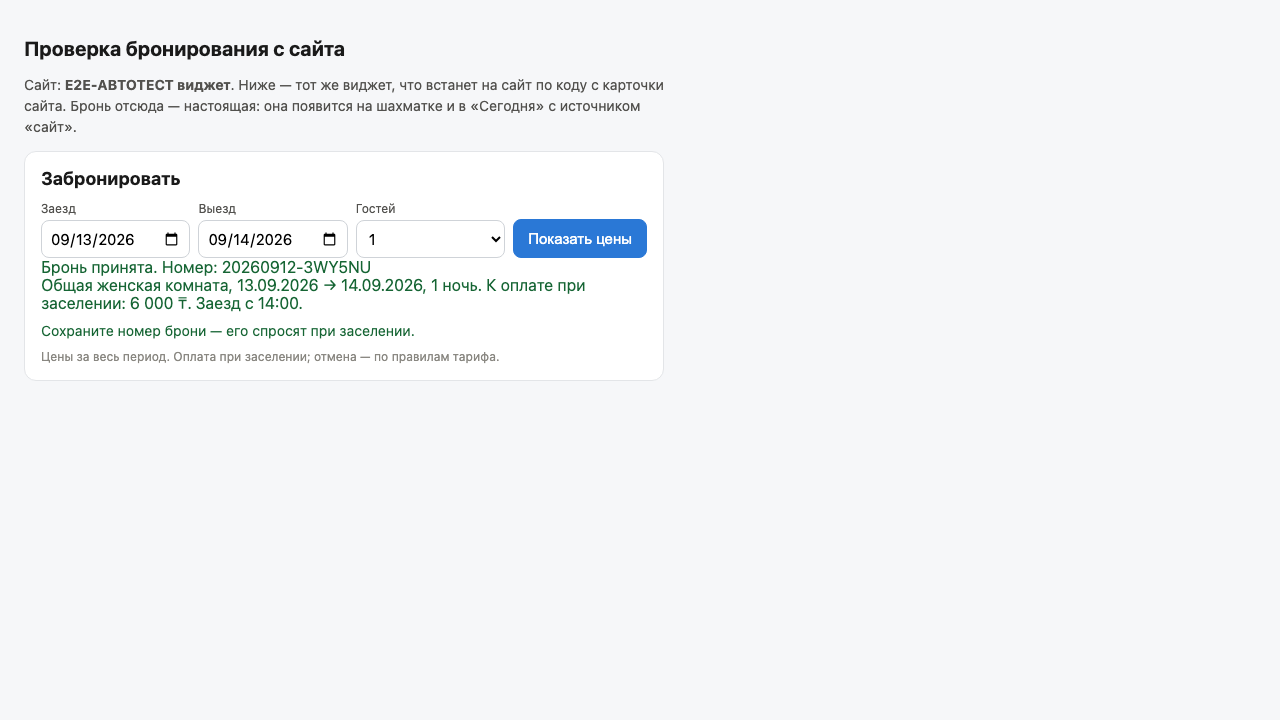
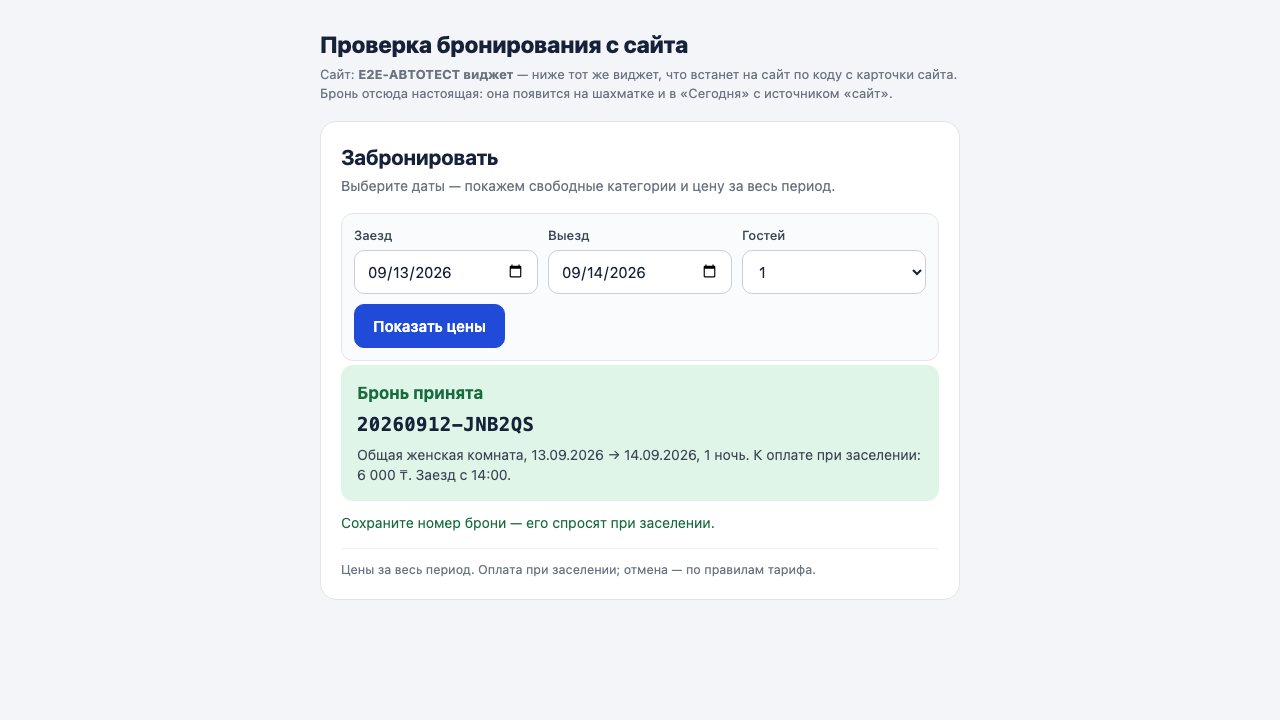
feat(site): guest-facing booking widget and both check pages in the same visual direction
Widget (.pmsw): brand palette behind its own --pmsw-* variables the site owner can override, 44px fields
and buttons, single column under 460px, focus rings, color-scheme: light so date inputs survive a dark host
page, system font (no web font pulled onto someone else's site); price and confirmation number get typographic
weight. Check pages /w/demo and /a/demo on the same palette. DOM contract (data-pmsw, .cat/.n/.p/.msg) unchanged
— web-booking e2e 2/2 green. Re-theming documented in the install guide; ADR-027 addendum.

diff --git a/apps/api/src/web-booking/widget.js b/apps/api/src/web-booking/widget.js
@@ -13,13 +13,56 @@
   if (!key) return;
   var api = script.src.replace(/\/w\/widget\.js(\?.*)?$/, '');
   var targetSel = script.getAttribute('data-target') || '#pms-booking';
-  var css =
-    '.pmsw{font-family:system-ui,-apple-system,"Segoe UI",sans-serif;max-width:640px;color:#1a1a1a;background:#fff;border:1px solid #e3e5e8;border-radius:12px;padding:16px;box-sizing:border-box}' +
-    '.pmsw *{box-sizing:border-box}.pmsw h3{margin:0 0 12px;font-size:18px}.pmsw .row{display:flex;gap:8px;flex-wrap:wrap;align-items:end}' +
-    '.pmsw label{display:grid;gap:4px;font-size:12px;color:#52514e;flex:1 1 140px}.pmsw input,.pmsw select,.pmsw textarea{padding:8px;border:1px solid #cfd3d8;border-radius:8px;font-size:15px;font-family:inherit;width:100%}' +
-    '.pmsw button{padding:10px 14px;border-radius:8px;border:1px solid #2a78d6;background:#2a78d6;color:#fff;font-size:15px;cursor:pointer}.pmsw button.sec{background:#fff;color:#2a78d6}.pmsw button:disabled{opacity:.6;cursor:default}' +
-    '.pmsw .cat{display:flex;justify-content:space-between;gap:12px;align-items:center;border-top:1px solid #f0f1f3;padding:10px 0}.pmsw .cat .n{font-weight:600}.pmsw .cat .s{font-size:13px;color:#52514e}.pmsw .cat .p{font-size:17px;font-weight:600;white-space:nowrap}' +
-    '.pmsw .msg{margin-top:10px;font-size:14px}.pmsw .err{color:#b91c1c}.pmsw .ok{color:#166534}.pmsw .note{font-size:12px;color:#898781;margin-top:10px}.pmsw .hp{position:absolute;left:-9999px;top:-9999px}';
+  /*
+   * Оформление (дизайн «спокойная стойка», 12.09.2026). Виджет стоит на чужом сайте, поэтому:
+   * все селекторы под `.pmsw`, свои переменные (владелец сайта может переопределить их своим CSS),
+   * системные шрифты — не тянем гарнитуру на чужую страницу, `color-scheme: light` — чтобы поля дат
+   * не почернели на тёмной теме сайта. Поля и кнопки 44 px: гость бронирует с телефона.
+   */
+  var css = [
+    '.pmsw{--pmsw-accent:#1f4bd8;--pmsw-accent-dark:#17399f;--pmsw-ink:#16213a;--pmsw-ink-2:#3d4656;',
+    '--pmsw-muted:#6b7280;--pmsw-line:#e3e5e8;--pmsw-line-soft:#eef0f3;--pmsw-field:#cbd0d6;',
+    '--pmsw-ok:#176b3f;--pmsw-ok-bg:#dff5e7;--pmsw-err:#b4232c;--pmsw-radius:12px;',
+    'color-scheme:light;font-family:system-ui,-apple-system,"Segoe UI",Roboto,sans-serif;font-size:15px;line-height:1.45;',
+    'max-width:680px;color:var(--pmsw-ink);background:#fff;border:1px solid var(--pmsw-line);',
+    'border-radius:16px;padding:20px;box-sizing:border-box;text-align:left}',
+    '.pmsw *{box-sizing:border-box}',
+    '.pmsw h3{margin:0;font-size:21px;font-weight:700;letter-spacing:-.01em;color:var(--pmsw-ink)}',
+    '.pmsw .lede{margin:4px 0 16px;font-size:14px;color:var(--pmsw-muted)}',
+    '.pmsw .row{display:flex;gap:10px;flex-wrap:wrap;align-items:end}',
+    '.pmsw .search{background:#fafbfc;border:1px solid var(--pmsw-line);border-radius:var(--pmsw-radius);padding:12px}',
+    '.pmsw label{display:grid;gap:5px;font-size:13px;font-weight:500;color:var(--pmsw-ink-2);flex:1 1 150px;min-width:0}',
+    '.pmsw input,.pmsw select,.pmsw textarea{min-height:44px;padding:10px 12px;border:1px solid var(--pmsw-field);',
+    'border-radius:10px;font-size:15px;font-family:inherit;color:var(--pmsw-ink);background:#fff;width:100%}',
+    '.pmsw textarea{min-height:64px;resize:vertical}',
+    '.pmsw input:focus-visible,.pmsw select:focus-visible,.pmsw textarea:focus-visible{outline:2px solid var(--pmsw-accent);outline-offset:-1px;border-color:var(--pmsw-accent)}',
+    '.pmsw button{min-height:44px;padding:11px 18px;border-radius:10px;border:1px solid var(--pmsw-accent);',
+    'background:var(--pmsw-accent);color:#fff;font-size:15px;font-weight:600;font-family:inherit;cursor:pointer;white-space:nowrap}',
+    '.pmsw button:hover{background:var(--pmsw-accent-dark);border-color:var(--pmsw-accent-dark)}',
+    '.pmsw button.sec{background:#fff;color:var(--pmsw-accent)}',
+    '.pmsw button.sec:hover{background:#f4f6fd}',
+    '.pmsw button:disabled{opacity:.55;cursor:default}',
+    '.pmsw button:focus-visible{outline:2px solid var(--pmsw-ink);outline-offset:2px}',
+    '.pmsw .found{margin:16px 0 2px;font-size:14px;color:var(--pmsw-ink-2);font-weight:500}',
+    '.pmsw .cat{display:flex;justify-content:space-between;gap:14px;align-items:center;',
+    'border-top:1px solid var(--pmsw-line-soft);padding:14px 0}',
+    '.pmsw .cat .n{font-weight:600;font-size:16px}',
+    '.pmsw .cat .s{font-size:13px;color:var(--pmsw-muted);margin-top:2px}',
+    '.pmsw .cat .p{font-size:20px;font-weight:700;white-space:nowrap;font-variant-numeric:tabular-nums;margin-left:auto}',
+    '.pmsw .cat--off{opacity:.55}.pmsw .cat--off .p{font-weight:600;color:var(--pmsw-muted)}',
+    '.pmsw .chosen{border-top:0;background:#fafbfc;border:1px solid var(--pmsw-line);border-radius:var(--pmsw-radius);padding:14px;margin-bottom:14px}',
+    '.pmsw .msg{margin-top:12px;font-size:14px}',
+    '.pmsw .err{color:var(--pmsw-err)}',
+    '.pmsw .ok{color:var(--pmsw-ok)}',
+    '.pmsw .done{background:var(--pmsw-ok-bg);border-radius:var(--pmsw-radius);padding:16px;margin-top:4px}',
+    '.pmsw .done .n{font-size:17px;font-weight:700;color:var(--pmsw-ok);margin-bottom:4px}',
+    '.pmsw .done .num{font-family:ui-monospace,SFMono-Regular,Menlo,monospace;font-size:19px;font-weight:600;color:var(--pmsw-ink);letter-spacing:.02em;display:block;margin:6px 0}',
+    '.pmsw .done .s{font-size:14px;color:var(--pmsw-ink-2)}',
+    '.pmsw .note{font-size:12.5px;color:var(--pmsw-muted);margin-top:14px;padding-top:12px;border-top:1px solid var(--pmsw-line-soft)}',
+    '.pmsw .hp{position:absolute;left:-9999px;top:-9999px}',
+    '@media (max-width:460px){.pmsw{padding:16px;border-radius:12px}.pmsw label{flex:1 1 100%}',
+    '.pmsw .row>button{width:100%}.pmsw .cat{flex-wrap:wrap}.pmsw .cat .p{margin-left:0}.pmsw .cat>button{width:100%}}',
+  ].join('');
 
   function ready(fn) {
     if (document.readyState === 'loading') document.addEventListener('DOMContentLoaded', fn);
@@ -153,11 +196,19 @@
     });
     root.appendChild(el('h3', { text: 'Забронировать' }));
     root.appendChild(
-      el('div', { class: 'row' }, [
-        el('label', { text: 'Заезд' }, [arrival]),
-        el('label', { text: 'Выезд' }, [departure]),
-        el('label', { text: 'Гостей' }, [adults]),
-        quoteBtn,
+      el('div', {
+        class: 'lede',
+        text: 'Выберите даты — покажем свободные категории и цену за весь период.',
+      }),
+    );
+    root.appendChild(
+      el('div', { class: 'search' }, [
+        el('div', { class: 'row' }, [
+          el('label', { text: 'Заезд' }, [arrival]),
+          el('label', { text: 'Выезд' }, [departure]),
+          el('label', { text: 'Гостей' }, [adults]),
+          quoteBtn,
+        ]),
       ]),
     );
     root.appendChild(list);
@@ -208,7 +259,7 @@
     function renderQuote(r) {
       list.textContent = '';
       var head = el('div', {
-        class: 's',
+        class: 'found',
         text:
           ru(r.arrivalDate) +
           ' → ' +
@@ -239,7 +290,7 @@
         var row = el(
           'div',
           {
-            class: 'cat',
+            class: can ? 'cat' : 'cat cat--off',
             'data-pmsw': 'cat',
             'data-code': c.code,
             'data-available': String(c.available),
@@ -324,7 +375,7 @@
         },
       });
       var form = el('form', { 'data-pmsw': 'form' }, [
-        el('div', { class: 'cat' }, [
+        el('div', { class: 'cat chosen' }, [
           el('div', {}, [
             el('div', { class: 'n', text: c.name }),
             el('div', {
@@ -380,25 +431,30 @@
             track('booking_step', { step: 'done', category: c.code });
             list.textContent = '';
             list.appendChild(
-              el('div', { class: 'ok', 'data-pmsw': 'done', 'data-number': b.confirmationNumber }, [
-                el('div', { class: 'n', text: 'Бронь принята. Номер: ' + b.confirmationNumber }),
-                el('div', {
-                  class: 's',
-                  text:
-                    b.categoryName +
-                    ', ' +
-                    ru(b.arrivalDate) +
-                    ' → ' +
-                    ru(b.departureDate) +
-                    ', ' +
-                    nightsWord(b.nights) +
-                    '. К оплате при заселении: ' +
-                    money(b.totalMinor, b.currency) +
-                    '. Заезд с ' +
-                    b.checkInTime +
-                    '.',
-                }),
-              ]),
+              el(
+                'div',
+                { class: 'done', 'data-pmsw': 'done', 'data-number': b.confirmationNumber },
+                [
+                  el('div', { class: 'n', text: 'Бронь принята' }),
+                  el('span', { class: 'num', text: b.confirmationNumber }),
+                  el('div', {
+                    class: 's',
+                    text:
+                      b.categoryName +
+                      ', ' +
+                      ru(b.arrivalDate) +
+                      ' → ' +
+                      ru(b.departureDate) +
+                      ', ' +
+                      nightsWord(b.nights) +
+                      '. К оплате при заселении: ' +
+                      money(b.totalMinor, b.currency) +
+                      '. Заезд с ' +
+                      b.checkInTime +
+                      '.',
+                  }),
+                ],
+              ),
             );
             say('Сохраните номер брони — его спросят при заселении.', 'ok');
           })

diff --git a/apps/api/src/analytics/collect.controller.ts b/apps/api/src/analytics/collect.controller.ts
@@ -86,9 +86,10 @@ function demoPage(siteName: string, key: string, second: boolean): string {
   const title = second ? 'Вторая страница' : 'Проверка счётчика PMS';
   return `<!doctype html><html lang="ru"><head><meta charset="utf-8"><meta name="viewport" content="width=device-width, initial-scale=1"><meta name="robots" content="noindex"><title>${esc(title)}</title>
 <script async src="/a/pms.js" data-site="${key}"></script>
-<style>body{font-family:system-ui,sans-serif;margin:0;padding:24px;max-width:560px;color:#1a1a1a;background:#f6f7f9}h1{font-size:20px}p,li{font-size:15px;line-height:1.5}button{display:block;width:100%;margin:8px 0;padding:12px;font-size:16px;border-radius:8px;border:1px solid #2a78d6;background:#fff;color:#2a78d6}a.btn{display:block;margin:8px 0;padding:12px;text-align:center;border-radius:8px;background:#2a78d6;color:#fff;text-decoration:none}code{background:#eef0f3;padding:2px 4px;border-radius:4px}#log{font-size:13px;color:#166534;min-height:1.5em}</style></head>
-<body><h1>${esc(title)}</h1>
-<p>Сайт: <b>${esc(siteName)}</b>, ключ <code>${key}</code>.</p>
+<style>*{box-sizing:border-box}body{font-family:system-ui,-apple-system,'Segoe UI',Roboto,sans-serif;margin:0;padding:28px 20px 48px;color:#16213a;background:#f4f5f8;line-height:1.45;color-scheme:light}.wrap{max-width:640px;margin:0 auto}h1{font-size:23px;font-weight:800;letter-spacing:-.01em;margin:0 0 4px}.sub{font-size:13px;color:#6b7280;margin:0 0 18px}p,li{font-size:15px;color:#3d4656}code{font-family:ui-monospace,SFMono-Regular,Menlo,monospace;font-size:13px;background:#e8eefc;color:#17399f;padding:2px 6px;border-radius:4px}.card{background:#fff;border:1px solid #e3e5e8;border-radius:14px;padding:18px}button{display:block;width:100%;min-height:48px;margin:8px 0;padding:12px 16px;font-size:16px;font-weight:600;font-family:inherit;border-radius:10px;border:1px solid #cbd0d6;background:#fff;color:#16213a;cursor:pointer;text-align:left}button:hover{border-color:#1f4bd8;color:#1f4bd8}button:focus-visible,a:focus-visible{outline:2px solid #1f4bd8;outline-offset:2px}a.btn{display:block;min-height:48px;margin:14px 0 0;padding:13px 16px;text-align:center;border-radius:10px;background:#1f4bd8;color:#fff;text-decoration:none;font-weight:600}a.btn:hover{background:#17399f}#log{font-size:13.5px;font-weight:500;color:#176b3f;min-height:1.5em;margin-top:12px}.foot{color:#6b7280;font-size:12.5px;margin-top:20px;padding-top:14px;border-top:1px solid #e3e5e8}</style></head>
+<body><div class="wrap"><h1>${esc(title)}</h1>
+<p class="sub">Сайт: <b>${esc(siteName)}</b>, ключ <code>${key}</code></p>
+<div class="card">
 <p>${
     second
       ? 'Это второй просмотр в той же сессии. Вернитесь назад или нажмите кнопки — события уйдут в PMS.'
@@ -99,7 +100,8 @@ function demoPage(siteName: string, key: string, second: boolean): string {
 <button type="button" onclick="pms('event', 'whatsapp_click'); log('клик по WhatsApp')">Клик по WhatsApp (whatsapp_click)</button>
 <a class="btn" href="/a/demo?k=${key}&amp;p=${second ? '1' : '2'}">${second ? 'Назад на первую страницу' : 'Вторая страница (ещё один просмотр)'}</a>
 <div id="log"></div>
-<p style="color:#666;font-size:13px">Счётчик не собирает персональные данные: без cookies, IP и имён. Источник у этой страницы — «прямой заход», если вы открыли её по ссылке из мессенджера — «соцсети».</p>
+</div>
+<p class="foot">Счётчик не собирает персональные данные: без cookies, IP и имён. Источник у этой страницы — «прямой заход», если вы открыли её по ссылке из мессенджера — «соцсети».</p></div>
 <script>function log(t){document.getElementById('log').textContent='Отправлено: '+t+' — '+new Date().toLocaleTimeString('ru-RU')}</script>
 </body></html>`;
 }

diff --git a/apps/api/src/web-booking/web-booking.controller.ts b/apps/api/src/web-booking/web-booking.controller.ts
@@ -97,10 +97,10 @@ const esc = (s: string) =>
 function demoPage(siteName: string, key: string): string {
   return `<!doctype html><html lang="ru"><head><meta charset="utf-8"><meta name="viewport" content="width=device-width, initial-scale=1"><meta name="robots" content="noindex"><title>Проверка бронирования с сайта</title>
 <script async src="/a/pms.js" data-site="${key}"></script>
-<style>body{font-family:system-ui,sans-serif;margin:0;padding:24px;max-width:640px;color:#1a1a1a;background:#f6f7f9}h1{font-size:20px}p{font-size:14px;color:#52514e;line-height:1.5}</style></head>
-<body><h1>Проверка бронирования с сайта</h1>
-<p>Сайт: <b>${esc(siteName)}</b>. Ниже — тот же виджет, что встанет на сайт по коду с карточки сайта. Бронь отсюда — настоящая: она появится на шахматке и в «Сегодня» с источником «сайт».</p>
+<style>*{box-sizing:border-box}body{font-family:system-ui,-apple-system,'Segoe UI',Roboto,sans-serif;margin:0;padding:28px 20px 48px;color:#16213a;background:#f4f5f8;line-height:1.45;color-scheme:light}.wrap{max-width:640px;margin:0 auto}h1{font-size:23px;font-weight:800;letter-spacing:-.01em;margin:0 0 4px}.sub{font-size:13px;color:#6b7280;margin:0 0 18px}p,li{font-size:15px;color:#3d4656}code{font-family:ui-monospace,SFMono-Regular,Menlo,monospace;font-size:13px;background:#e8eefc;color:#17399f;padding:2px 6px;border-radius:4px}.card{background:#fff;border:1px solid #e3e5e8;border-radius:14px;padding:18px}</style></head>
+<body><div class="wrap"><h1>Проверка бронирования с сайта</h1>
+<p class="sub">Сайт: <b>${esc(siteName)}</b> — ниже тот же виджет, что встанет на сайт по коду с карточки сайта. Бронь отсюда настоящая: она появится на шахматке и в «Сегодня» с источником «сайт».</p>
 <div id="pms-booking"></div>
 <script async src="/w/widget.js" data-site="${key}"></script>
-</body></html>`;
+</div></body></html>`;
 }

diff --git a/DECISIONS.md b/DECISIONS.md
@@ -603,3 +603,12 @@ e2e. Настоящий дизайн делается по замечаниям 
 > заголовок экрана 28/800; заголовки колонок заглавными 11,5 с разрядкой, строки 8×12, подсветка при наведении;
 > контролы 34 px; плитки-показатели: жёлтая «не сделано», красная «долг», остальные белые. Тексты, поля,
 > `data-testid` не менялись; сквозные тесты стойки зелёные; скриншоты `reports/screenshots/design-*.png`.
+>
+> **Гостевая часть в том же стиле (12.09.2026, вечер).** Виджет бронирования на сайте хостела
+> (`apps/api/src/web-booking/widget.js`) и обе проверочные страницы (`/w/demo`, `/a/demo`) переведены на те же
+> цвета. Виджет живёт на чужом сайте, поэтому правила отличаются от стойки: все селекторы под классом `.pmsw`;
+> цвета — собственные переменные `--pmsw-accent`, `--pmsw-ink`, `--pmsw-radius` и т. д., владелец сайта может
+> переопределить их своим CSS (описано в `docs/site/install-2026-09-12.md`); гарнитура не подгружается —
+> системный шрифт, чтобы не замедлять чужую страницу; `color-scheme: light`, иначе поля дат чернеют на сайте
+> с тёмной темой; поля и кнопки 44 px и одна колонка уже 460 px — гость бронирует с телефона. DOM-контракт
+> (`data-pmsw-*`, классы `.cat`, `.n`, `.p`, `.msg`) не менялся, его держит `tests/e2e/web-booking.spec.ts`.

diff --git a/docs/site/install-2026-09-12.md b/docs/site/install-2026-09-12.md
@@ -51,7 +51,27 @@
 ```
 
 Виджет рисуется внутри `<div id="pms-booking">`. Нужен другой контейнер — добавьте атрибут
-`data-target="#мой-блок"`. Ширина — до 640 px, растягивается по контейнеру; стили свои, с сайтом не конфликтуют.
+`data-target="#мой-блок"`. Ширина — до 680 px, растягивается по контейнеру; стили свои, с сайтом не
+конфликтуют (все правила под классом `.pmsw`), гарнитуру виджет не подгружает — берёт системный шрифт.
+На узком экране поля и кнопки встают в одну колонку, высота полей и кнопок 44 px — под палец.
+
+**Если цвета виджета не совпадают с сайтом**, их можно переопределить своим CSS — вставить после блока 2:
+
+```html
+<style>
+  .pmsw {
+    --pmsw-accent: #1f4bd8;      /* кнопки и ссылки */
+    --pmsw-accent-dark: #17399f; /* наведение */
+    --pmsw-ink: #16213a;         /* заголовки и цены */
+    --pmsw-ink-2: #3d4656;       /* подписи полей */
+    --pmsw-muted: #6b7280;       /* пояснения */
+    --pmsw-line: #e3e5e8;        /* рамки */
+    --pmsw-radius: 12px;         /* скругление */
+  }
+</style>
+```
+
+Менять имеет смысл только акцент и скругление — остальное подобрано под читаемость.
 
 ## 4. Куда вставлять — по платформам
 
